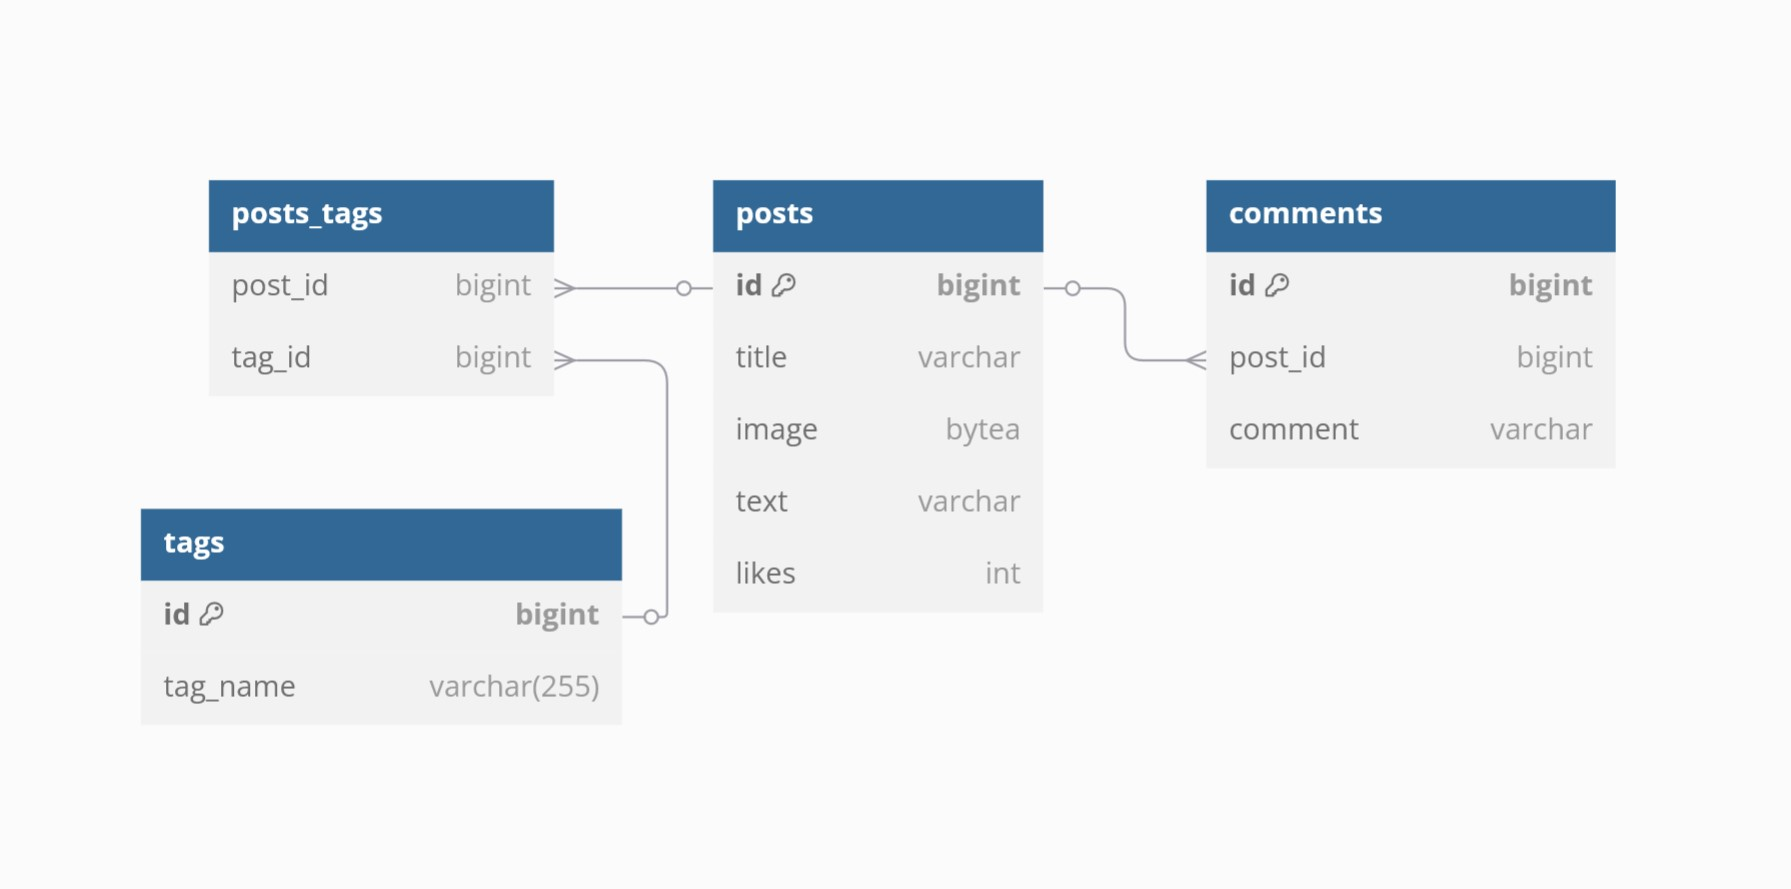
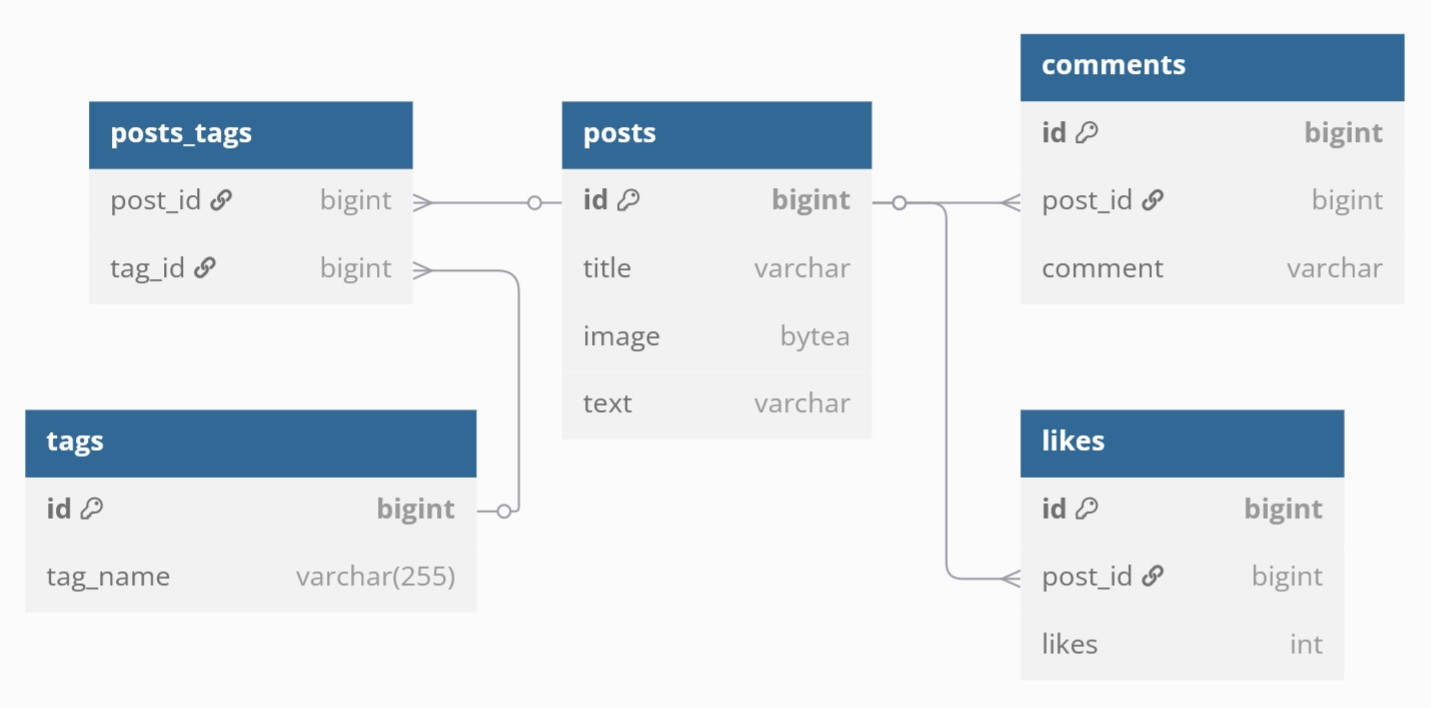
feat: добавлена работа с лайками

diff --git a/src/main/java/ru/yandex/practicum/service/impl/PostServiceImpl.java b/src/main/java/ru/yandex/practicum/service/impl/PostServiceImpl.java
@@ -14,6 +14,7 @@ import ru.yandex.practicum.dto.PostSaveDto;
 import ru.yandex.practicum.mapper.PostMapper;
 import ru.yandex.practicum.repository.PostRepository;
 import ru.yandex.practicum.repository.PostTagRepository;
+import ru.yandex.practicum.service.LikeService;
 import ru.yandex.practicum.service.PostService;
 
 @Service
@@ -23,6 +24,7 @@ public class PostServiceImpl implements PostService {
   private final PostRepository postRepository;
   private final PostTagRepository postTagRepository;
   private final PostMapper postMapper;
+  private final LikeService likeService;
 
   @Override
   public List<PostPreviewDto> findAllPosts(int from, int size) {
@@ -43,13 +45,13 @@ public class PostServiceImpl implements PostService {
 
   @Override
   public void savePost(PostSaveDto postSaveDto) {
-
     Post post = postRepository.save(postMapper.toPost(postSaveDto));
-
 
     for (Long tagId : postSaveDto.tagIds()) {
       postTagRepository.save(new PostTag(post.getId(), tagId));
     }
+
+    likeService.saveLike(post.getId());
   }
 
   @Override
@@ -63,11 +65,6 @@ public class PostServiceImpl implements PostService {
         postTagRepository.save(new PostTag(id, tagId));
       }
     }
-  }
-
-  @Override
-  public void addLike(Long id) {
-
   }
 
   @Override

diff --git a/src/main/java/ru/yandex/practicum/mapper/PostMapper.java b/src/main/java/ru/yandex/practicum/mapper/PostMapper.java
@@ -6,6 +6,7 @@ import java.util.stream.Collectors;
 import org.mapstruct.Mapper;
 import org.mapstruct.Mapping;
 import ru.yandex.practicum.dao.Post;
+import ru.yandex.practicum.dao.Tag;
 import ru.yandex.practicum.dto.PostFullDto;
 import ru.yandex.practicum.dto.PostPreviewDto;
 import ru.yandex.practicum.dto.PostSaveDto;
@@ -19,18 +20,19 @@ public interface PostMapper {
 
   @Mapping(target = "countComments",
            expression = "java(posts.getComments() != null ? posts.getComments().size() : 0)")
-  @Mapping(target = "countLikes", source = "likes")
+  @Mapping(target = "countLikes", source = "like.likesCount")
   @Mapping(target = "postText", source = "text")
   @Mapping(target = "tagIds", source = "tags")
   List<PostPreviewDto> toFullDto(Iterable<Post> posts);
 
   @Mapping(target = "postText", source = "text")
   @Mapping(target = "tagIds", source = "tags")
+  @Mapping(target = "countLikes", source = "like.likesCount")
   PostFullDto toFullDto(Post post);
 
-  default Set<Long> mapPostToPostIds(Set<Post> posts) {
-    return posts.stream()
-                .map(Post::getId)
+  default Set<Long> mapTagToTagIds(Set<Tag> tags) {
+    return tags.stream()
+                .map(Tag::getId)
                 .collect(Collectors.toSet());
   }
 }

diff --git a/src/main/java/ru/yandex/practicum/controller/PostController.java b/src/main/java/ru/yandex/practicum/controller/PostController.java
@@ -10,6 +10,7 @@ import ru.yandex.practicum.dto.PostPreviewDto;
 import ru.yandex.practicum.dto.PostSaveDto;
 import ru.yandex.practicum.dto.TagDto;
 import ru.yandex.practicum.service.CommentService;
+import ru.yandex.practicum.service.LikeService;
 import ru.yandex.practicum.service.PostService;
 import ru.yandex.practicum.service.TagService;
 
@@ -24,6 +25,7 @@ public class PostController {
   private final PostService postService;
   private final CommentService commentService;
   private final TagService tagService;
+  private final LikeService likeService;
 
   /**
    * Обрабатывает GET-запросы на получение списка превью постов для ленты.
@@ -86,7 +88,7 @@ public class PostController {
    */
   @PostMapping("/{id}/like")
   public String addLike(@PathVariable(name = "id") Long id) {
-    postService.addLike(id);
+    likeService.addLike(id);
 
     return REDIRECT_POST;
   }

diff --git a/src/main/java/ru/yandex/practicum/dao/Like.java b/src/main/java/ru/yandex/practicum/dao/Like.java
@@ -1,0 +1,35 @@
+package ru.yandex.practicum.dao;
+
+import javax.persistence.Column;
+import javax.persistence.Entity;
+import javax.persistence.GeneratedValue;
+import javax.persistence.GenerationType;
+import javax.persistence.Id;
+import javax.persistence.JoinColumn;
+import javax.persistence.Table;
+import lombok.AllArgsConstructor;
+import lombok.Builder;
+import lombok.Getter;
+import lombok.RequiredArgsConstructor;
+import lombok.Setter;
+
+/**
+ * Класс лайков.
+ */
+@Getter
+@Setter
+@Entity
+@Builder
+@AllArgsConstructor
+@RequiredArgsConstructor
+@Table(name = "likes")
+public class Like {
+  @Id
+  @GeneratedValue(strategy = GenerationType.IDENTITY)
+  @Column(name = "id", nullable = false)
+  private Long id;
+  @JoinColumn(name = "post_id")
+  private Long postId;
+  @Column(name = "likes_count", nullable = false, columnDefinition = "integer default 0")
+  private Integer likesCount;
+}

diff --git a/src/main/java/ru/yandex/practicum/service/impl/LikeServiceImpl.java b/src/main/java/ru/yandex/practicum/service/impl/LikeServiceImpl.java
@@ -1,0 +1,34 @@
+package ru.yandex.practicum.service.impl;
+
+import lombok.RequiredArgsConstructor;
+import org.springframework.stereotype.Service;
+import ru.yandex.practicum.dao.Like;
+import ru.yandex.practicum.repository.LikeRepository;
+import ru.yandex.practicum.service.LikeService;
+
+@Service
+@RequiredArgsConstructor
+public class LikeServiceImpl implements LikeService {
+
+  private final LikeRepository likeRepository;
+
+  @Override
+  public void saveLike(Long id) {
+    Like newLike = new Like();
+    newLike.setPostId(id);
+
+    likeRepository.save(newLike);
+  }
+
+  @Override
+  public void addLike(Long id) {
+    Like existingLikes = likeRepository.findByPostId(id);
+
+    Integer likesCount = existingLikes.getLikesCount();
+    likesCount++;
+
+    existingLikes.setLikesCount(likesCount);
+
+    likeRepository.save(existingLikes);
+  }
+}

diff --git a/src/main/java/ru/yandex/practicum/dao/Post.java b/src/main/java/ru/yandex/practicum/dao/Post.java
@@ -9,6 +9,7 @@ import javax.persistence.GenerationType;
 import javax.persistence.Id;
 import javax.persistence.JoinColumn;
 import javax.persistence.OneToMany;
+import javax.persistence.OneToOne;
 import javax.persistence.Table;
 import lombok.*;
 
@@ -36,8 +37,9 @@ public class Post {
   @OneToMany(cascade = CascadeType.ALL, orphanRemoval = true)
   @JoinColumn(name = "post_id")
   private Set<Comment> comments;
-  @Column(name = "likes", nullable = false, columnDefinition = "integer default 0")
-  private int likes;
+  @OneToOne(cascade = CascadeType.ALL, orphanRemoval = true)
+  @JoinColumn(name = "post_id")
+  private Like like;
   @OneToMany(cascade = CascadeType.ALL, orphanRemoval = true)
   @JoinColumn(name = "post_id")
   private Set<Tag> tags;

diff --git a/src/main/java/ru/yandex/practicum/repository/LikeRepository.java b/src/main/java/ru/yandex/practicum/repository/LikeRepository.java
@@ -1,0 +1,17 @@
+package ru.yandex.practicum.repository;
+
+import org.springframework.data.jpa.repository.JpaRepository;
+import ru.yandex.practicum.dao.Like;
+
+/**
+ * Получение данных из таблицы Likes.
+ */
+public interface LikeRepository extends JpaRepository<Like, Long> {
+  /**
+   * Получение лайков для определенного id поста.
+   *
+   * @param id - id поста.
+   * @return объект лайков.
+   */
+  Like findByPostId(Long id);
+}

diff --git a/src/main/java/ru/yandex/practicum/service/LikeService.java b/src/main/java/ru/yandex/practicum/service/LikeService.java
@@ -1,0 +1,21 @@
+package ru.yandex.practicum.service;
+
+/**
+ * Сервис для работы с лайками.
+ */
+public interface LikeService {
+
+  /**
+   * Создание записи лайка к новому посту.
+   *
+   * @param id - id поста.
+   */
+  void saveLike(Long id);
+
+  /**
+   * Добавление лайка к посту.
+   *
+   * @param id - id поста.
+   */
+  void addLike(Long id);
+}

diff --git a/src/main/java/ru/yandex/practicum/service/PostService.java b/src/main/java/ru/yandex/practicum/service/PostService.java
@@ -42,12 +42,6 @@ public interface PostService {
    */
   void updatePost(Long id, PostSaveDto post);
 
-  /**
-   * Добавление лайка к посту.
-   *
-   * @param id - id поста.
-   */
-  void addLike(Long id);
 
   /**
    * Удаление поста по id.
